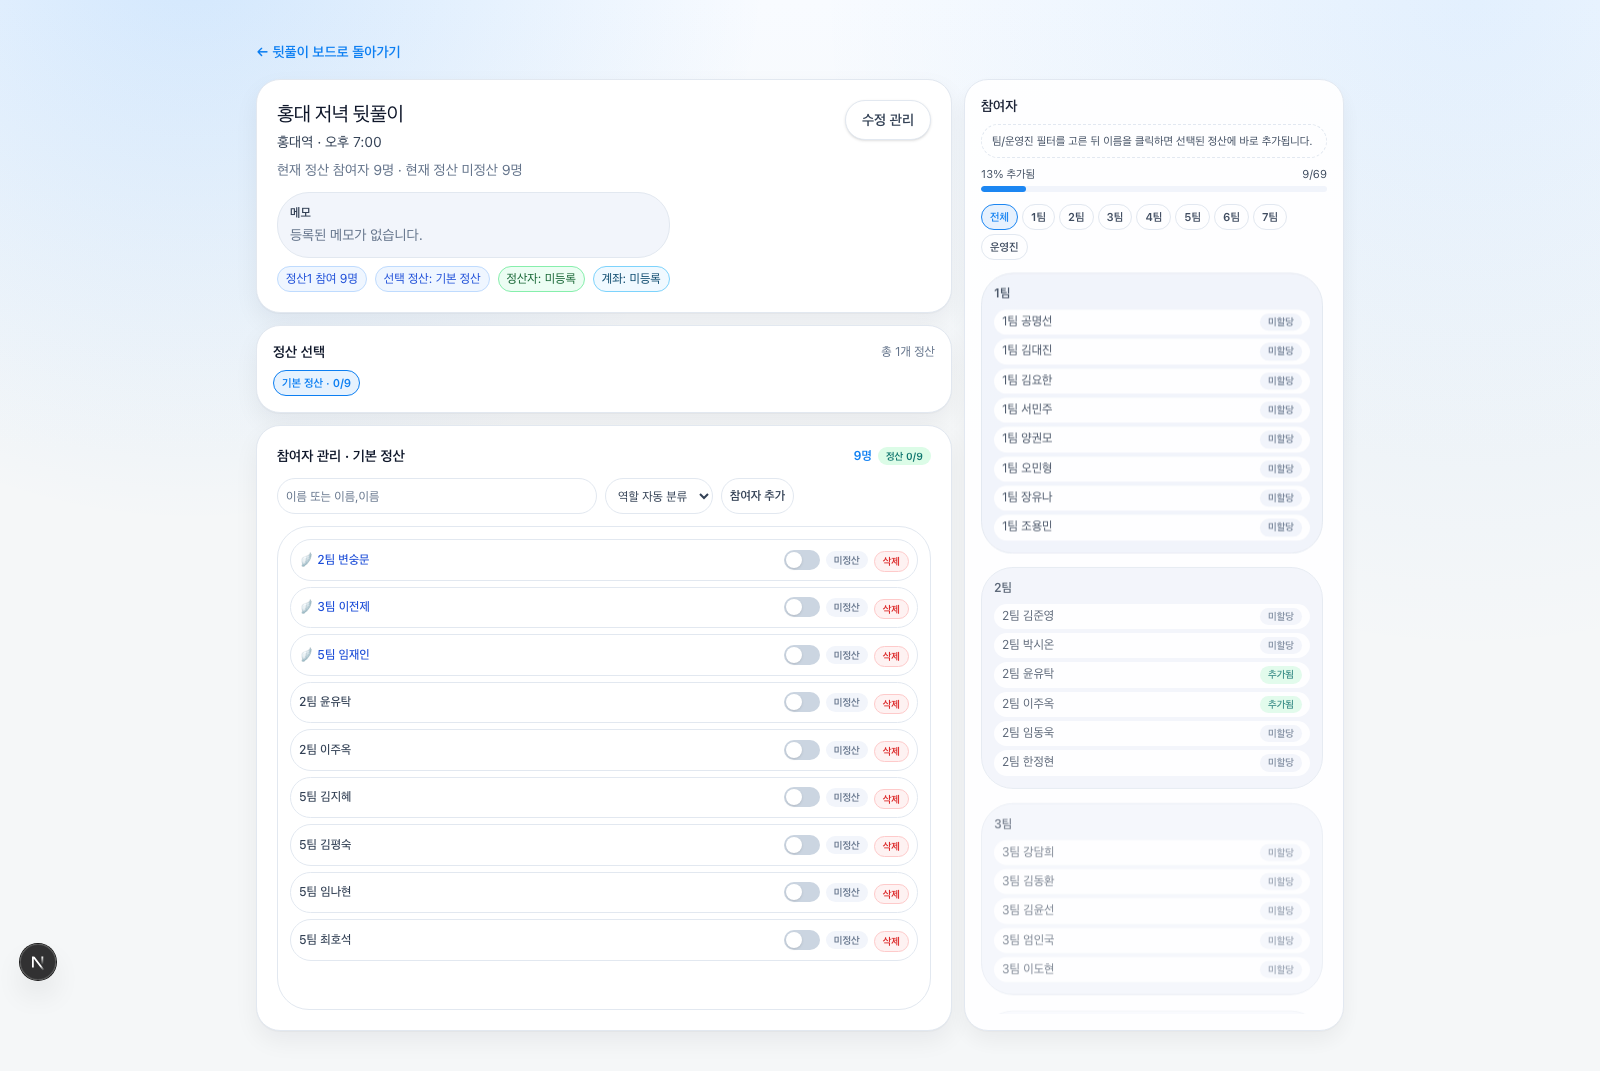
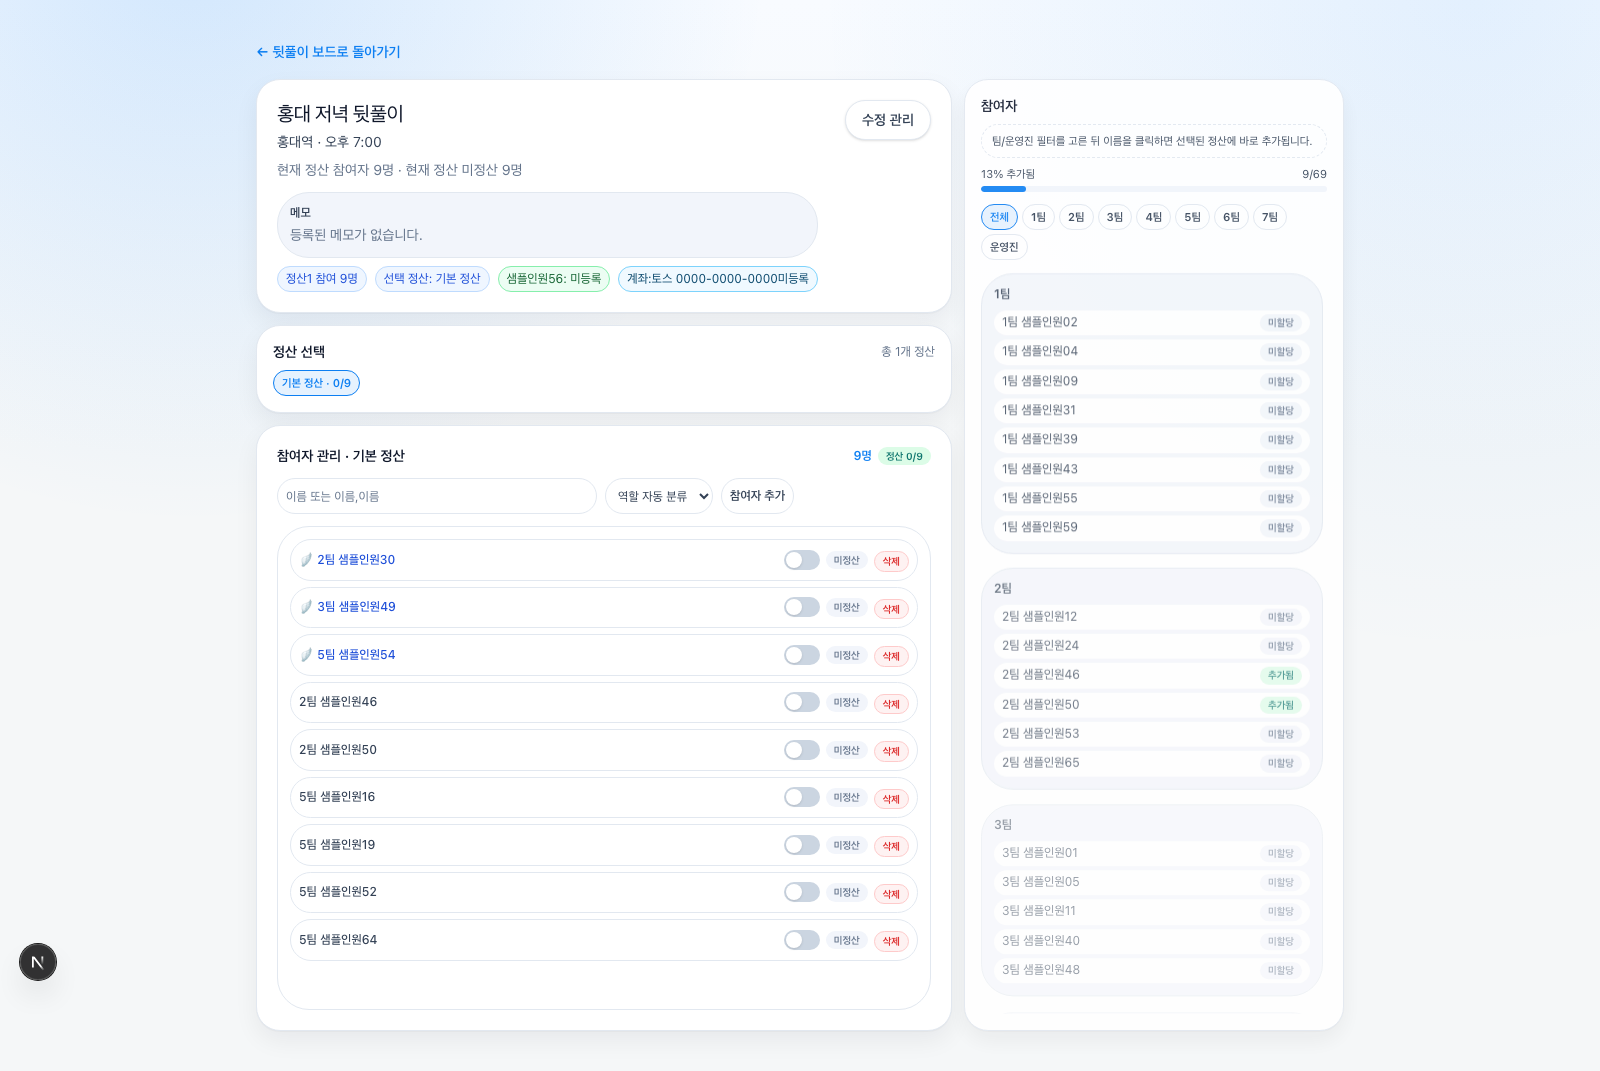
docs: enforce anonymized README screenshot workflow

diff --git a/docs/readme-screenshot-guide.md b/docs/readme-screenshot-guide.md
@@ -1,0 +1,55 @@
+# README Screenshot Guide
+
+README 스크린샷은 반드시 **가데이터**로만 관리한다.
+실명, 실제 계좌, 실제 내부 정보가 보이는 이미지는 커밋 금지.
+
+## 1. 원칙
+
+- 실명/실제 연락처/실제 계좌번호/내부 식별자 노출 금지
+- README 스크린샷은 항상 `docs/screenshots/*.png` 5개를 세트로 갱신
+- 수동 캡처 대신 프로젝트 스크립트(`scripts/capture-readme-screenshots.mjs`) 사용
+
+## 2. 준비
+
+- 로컬 서버 실행
+
+```bash
+cd /Users/green/IdeaProjects/saturday-meetup
+npm run dev
+```
+
+- `.env.local`에 아래 값이 있어야 함
+  - `APP_PASSWORD`
+  - `DATABASE_URL`
+
+## 3. 캡처 실행
+
+```bash
+cd /Users/green/IdeaProjects/saturday-meetup
+npm run docs:screenshots
+```
+
+동작:
+
+- 로그인 후 5개 화면 자동 캡처
+- DB의 이름 후보를 읽어 화면 텍스트를 `샘플인원NN` 형식으로 치환
+- 정산자/계좌 텍스트도 샘플 값으로 치환
+- 결과 파일:
+  - `docs/screenshots/study-dashboard-sample.png`
+  - `docs/screenshots/study-detail-sample.png`
+  - `docs/screenshots/afterparty-dashboard-sample.png`
+  - `docs/screenshots/afterparty-detail-sample.png`
+  - `docs/screenshots/members-sample.png`
+
+## 4. 커밋 전 체크리스트
+
+- 스크린샷에 실명이 보이지 않는다.
+- 계좌/정산자 정보가 샘플 값으로 보인다.
+- 5개 파일이 모두 같은 날 갱신되었다.
+- README 링크 경로가 깨지지 않았다.
+
+## 5. 금지 사항
+
+- README 캡처를 임의 수동 스크린샷으로 교체
+- 실데이터가 포함된 이미지 커밋
+- 일부 화면만 부분 갱신 후 커밋

diff --git a/README.md b/README.md
@@ -45,6 +45,8 @@
 
 ![멤버 관리 샘플](docs/screenshots/members-sample.png)
 
+스크린샷 운영 가이드: [`docs/readme-screenshot-guide.md`](docs/readme-screenshot-guide.md)
+
 ## 핵심 기능
 
 ### 1) 오프라인 스터디 관리
